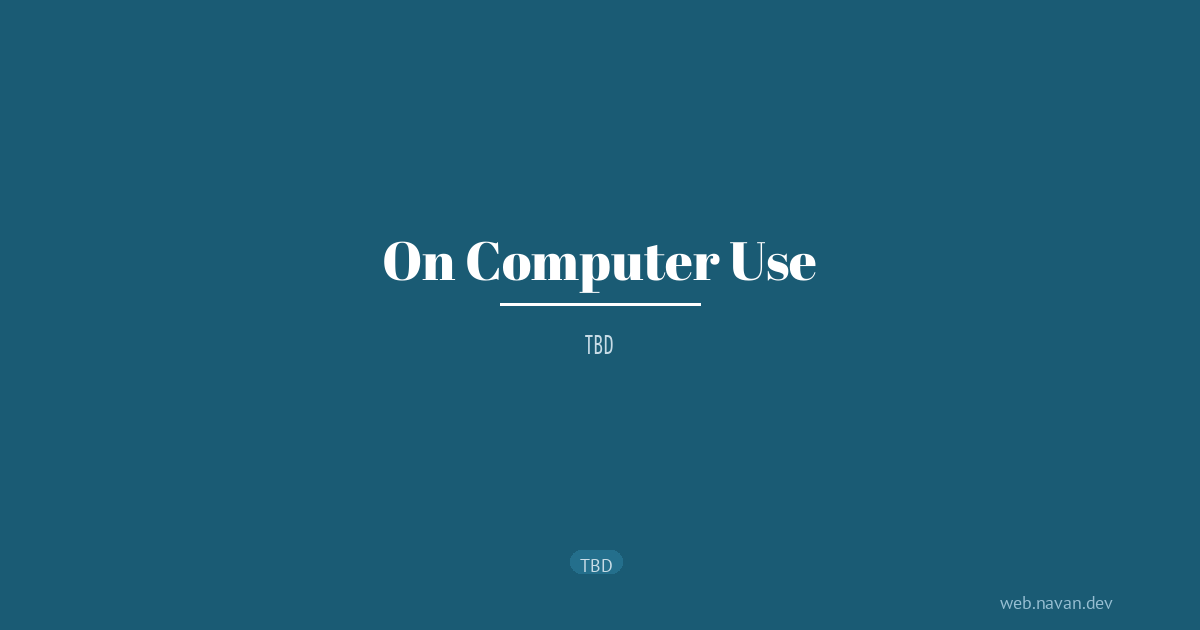
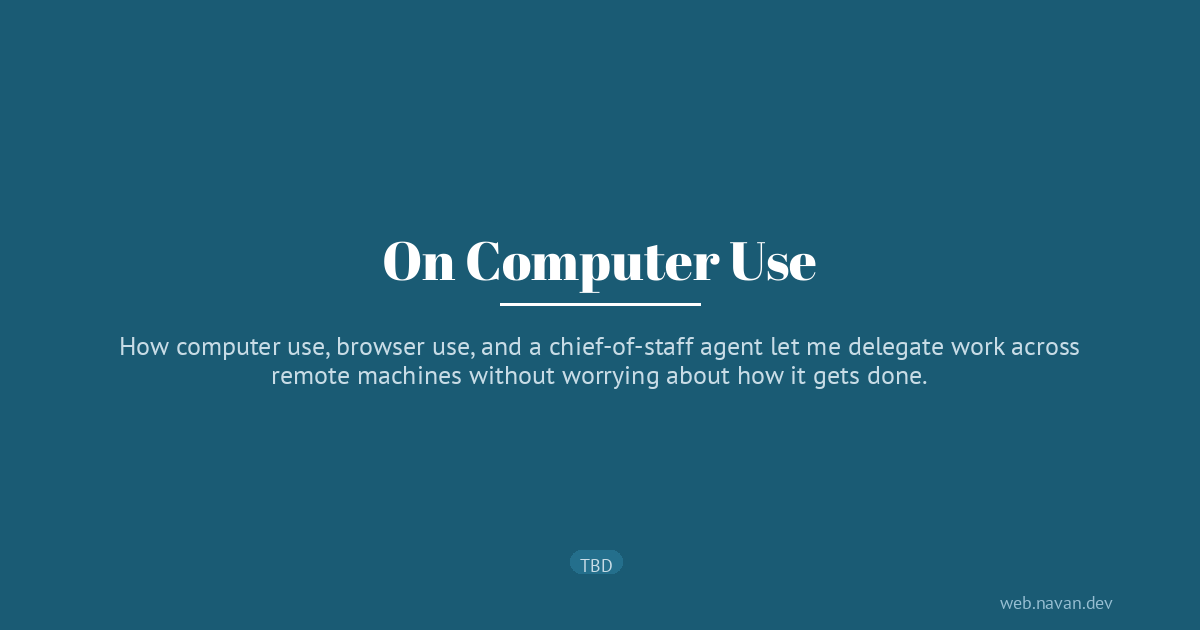
Fix broken links and add computer-use metadata

Changed region(s): [[0.0925, 0.5127, 0.8942, 0.6333]]

diff --git a/generate_me.py b/generate_me.py
@@ -80,7 +80,8 @@ f_date = email.utils.format_datetime(datetime.datetime.now())
 image_title_color = (49,31,19) #(74, 74, 74)
 image_line_color = (176,113,84) #(29, 116, 132)
 image_title_font = "fonts/futura_bold.ttf"
-image_text_font = "fonts/futura_light.ttf"
+# Use the cached PT Sans font for OG descriptions.
+image_text_font = ".og-fonts/PT_Sans-Web-Regular.ttf"
 
 # ── OG Image Generation (Option C: Teal Card) ──
 

diff --git a/Content/posts/2026-08-19-on-computer-use.md b/Content/posts/2026-08-19-on-computer-use.md
@@ -1,7 +1,7 @@
 ---
 date: 2026-08-19 11:03
-description: TBD
-tags: TBD
+description: How computer use, browser use, and a chief-of-staff agent let me delegate work across remote machines without worrying about how it gets done.
+tags: AI, Automation, Computer Use, Browser Use
 ---
 
 # On Computer Use
@@ -43,7 +43,7 @@ Since you also probably expect me to have some fun visualisations:
 <noscript>
   <style>.computer-use-js-visual { display: none !important; }</style>
   <figure style="margin: 2rem 0;">
-    <img src="/assets/posts/on-computer-use/browser-use-route.png" alt="Static diagram of the open-browser-use route from SDK, CLI, or MCP through a local socket, Go native host, Chrome Native Messaging, the MV3 service worker, and Chrome APIs." style="display: block; width: 100%; height: auto;">
+    <img src="/assets/posts/on-computer-use/browser-use-route.svg" alt="Static diagram of the open-browser-use route from SDK, CLI, or MCP through a local socket, Go native host, Chrome Native Messaging, the MV3 service worker, and Chrome APIs." style="display: block; width: 100%; height: auto;">
     <figcaption>Static view of the browser-use transport route.</figcaption>
   </figure>
 </noscript>
@@ -85,7 +85,7 @@ Since you also probably expect me to have some fun visualisations:
 
 <noscript>
   <figure style="margin: 2rem 0;">
-    <img src="/assets/posts/on-computer-use/computer-use-platforms.png" alt="Static comparison of Windows UI Automation and System.Drawing, Linux AT-SPI2 and GDK, and macOS AXUIElement and ScreenCaptureKit." style="display: block; width: 100%; height: auto;">
+    <img src="/assets/posts/on-computer-use/computer-use-platforms.svg" alt="Static comparison of Windows UI Automation and System.Drawing, Linux AT-SPI2 and GDK, and macOS AXUIElement and ScreenCaptureKit." style="display: block; width: 100%; height: auto;">
     <figcaption>Static comparison of the Windows, Linux, and macOS runtimes.</figcaption>
   </figure>
 </noscript>
@@ -124,7 +124,7 @@ The runtime prefers an element index when the tree has one, but it can also act 
 
 <noscript>
   <figure style="margin: 2rem 0;">
-    <img src="/assets/posts/on-computer-use/computer-use-actions.png" alt="Static diagram showing a computer-use click mapped from accessibility-tree element index 7 to an application target and an Invoke, AXPress, or doAction event." style="display: block; width: 100%; height: auto;">
+    <img src="/assets/posts/on-computer-use/computer-use-actions.svg" alt="Static diagram showing a computer-use click mapped from accessibility-tree element index 7 to an application target and an Invoke, AXPress, or doAction event." style="display: block; width: 100%; height: auto;">
     <figcaption>Static example of a semantic computer-use click.</figcaption>
   </figure>
 </noscript>

diff --git a/Content/index.md b/Content/index.md
@@ -1,5 +1,5 @@
 # Some Projects
 
-* [iGopherBrowser](https://web.navan.dev/iGopherBrowser): A modern Gopher client for iOS, macOS, and VisionOS. It is built on top of my [swift-gopher](https://github.com/swift-gopher) library. Available on the [App Store](https://apps.apple.com/in/app/igopherbrowser/id647463884)
+* [iGopherBrowser](https://web.navan.dev/iGopherBrowser): A modern Gopher client for iOS, macOS, and VisionOS. It is built on top of my [swift-gopher](https://github.com/navanchauhan/swift-gopher) library. Available on the [App Store](https://apps.apple.com/us/app/igopherbrowser/id6474638845)
 * [Leash](https://github.com/strongdm/leash): Native macOS/Linux sandboxing with policies written in Cedar
 * [VaporwaveGenerator](https://github.com/navanchauhan/VaporwaveGenerator): A E S T H E T I C S

diff --git a/Content/posts/2024-03-21-Polynomial-Regression-in-TensorFlow-2.md b/Content/posts/2024-03-21-Polynomial-Regression-in-TensorFlow-2.md
@@ -12,7 +12,7 @@ I will be skipping all the introductions about polynomial regression and jumping
 
 ## Position vs Salary Dataset
 
-Again, we will be using the [https://drive.google.com/file/d/1tNL4jxZEfpaP4oflfSn6pIHJX7Pachm9/view](Salary vs Position Dataset)
+Again, we will be using the [Salary vs Position Dataset](https://drive.google.com/file/d/1tNL4jxZEfpaP4oflfSn6pIHJX7Pachm9/view)
 
 If you are in a Python Notebook environment like Kaggle or Google Colaboratory, you can simply run:
 ```Termcap
@@ -238,5 +238,4 @@ bx = tf.pow(coefficients[1], X)
 pred_y = tf.math.multiply(coefficients[0], bx)
 loss = tf.reduce_mean(tf.square(pred_y - Y))
 ```
-
 

diff --git a/Content/posts/2019-12-16-TensorFlow-Polynomial-Regression.md b/Content/posts/2019-12-16-TensorFlow-Polynomial-Regression.md
@@ -6,7 +6,7 @@ tags: Tutorial, TensorFlow, Colab, AI
 
 # Polynomial Regression Using TensorFlow
 
-Edit: This tutorial is for TensorFlow 1.x which still works on TF 2.0 through `tensorflow.compat.v1`. I have an updated version for TensorFlow 2.x [here](posts/2024-03-21-Polynomial-Regression-in-TensorFlow-2.html).
+Edit: This tutorial is for TensorFlow 1.x which still works on TF 2.0 through `tensorflow.compat.v1`. I have an updated version for TensorFlow 2.x [here](/posts/2024-03-21-Polynomial-Regression-in-TensorFlow-2.html).
 
 **In this tutorial you will learn about polynomial regression and how you can implement it in Tensorflow.**
 

diff --git a/Content/ideas/2022-12-17-ar-mr-xr.md b/Content/ideas/2022-12-17-ar-mr-xr.md
@@ -19,7 +19,7 @@ All projects listed here are in the following format:
 | Hololens | Microsoft | |
 | Oculus | Facebook/Meta | |
 | [Tesseract](https://tesseract.in) | Jio/Tesseract | Indian "startup" |
-| [R1](https://www.lynx-r.com/collections) | Lynx | MR Headset |
+| [R1](https://portal.lynx-r.com/documentation/view/2) | Lynx | MR Headset |
 | [Monocle](https://www.brilliantmonocle.com) | Brilliant Labs | Open Source Smart Monocle |
 | [AR.js](https://ar-js-org.github.io/AR.js-Docs/) | AR-js-org | Open Source framework for AR on the web. Supports image, location and marker based tracking |
 | ARKit | Apple | Framework for iOS |

diff --git a/Content/publications/2020-03-14-generating-vaporwave.md b/Content/publications/2020-03-14-generating-vaporwave.md
@@ -10,7 +10,7 @@ tags: Publication, Pre-Print
 
 This is still a pre-print.
 
-[Download paper here](https://indiarxiv.org/9um2r/)
+[Download paper here](https://doi.org/10.35543/osf.io/9um2r)
 
 Recommended citation:
 
@@ -30,7 +30,7 @@ Chauhan, Navan. 2020. “Is It Possible to Programmatically Generate Vaporwave?.
 ```
 @misc{chauhan_2020,
  title={Is it possible to programmatically generate Vaporwave?},
- url={indiarxiv.org/9um2r},
+ url={https://doi.org/10.35543/osf.io/9um2r},
  DOI={10.35543/osf.io/9um2r},
  publisher={IndiaRxiv},
  author={Chauhan, Navan},

diff --git a/Content/posts/2023-10-04-bomb-lab.md b/Content/posts/2023-10-04-bomb-lab.md
@@ -448,7 +448,7 @@ c
 $1 = 100
 ```
 
-We can simply lookup the [ASCII table](https://www.cs.cmu.edu/~pattis/15-1XX/common/handouts/ascii.html), and see that 100 in decimal stands for the character `d`. Let us try this answer:
+We can simply lookup the [ASCII table](https://ics.uci.edu/~pattis/common/handouts/ascii.html), and see that 100 in decimal stands for the character `d`. Let us try this answer:
 
 ```shell
 ...
